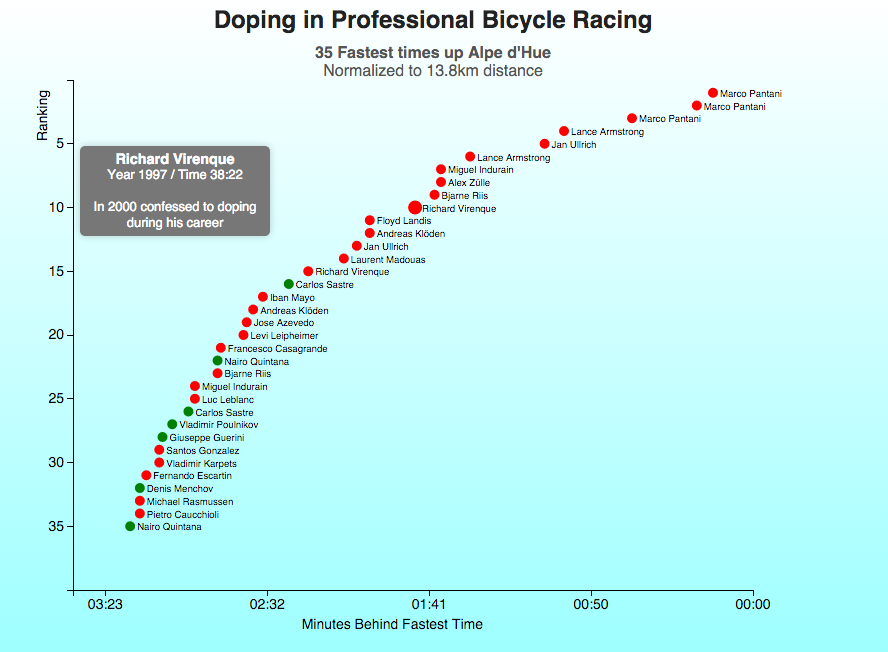
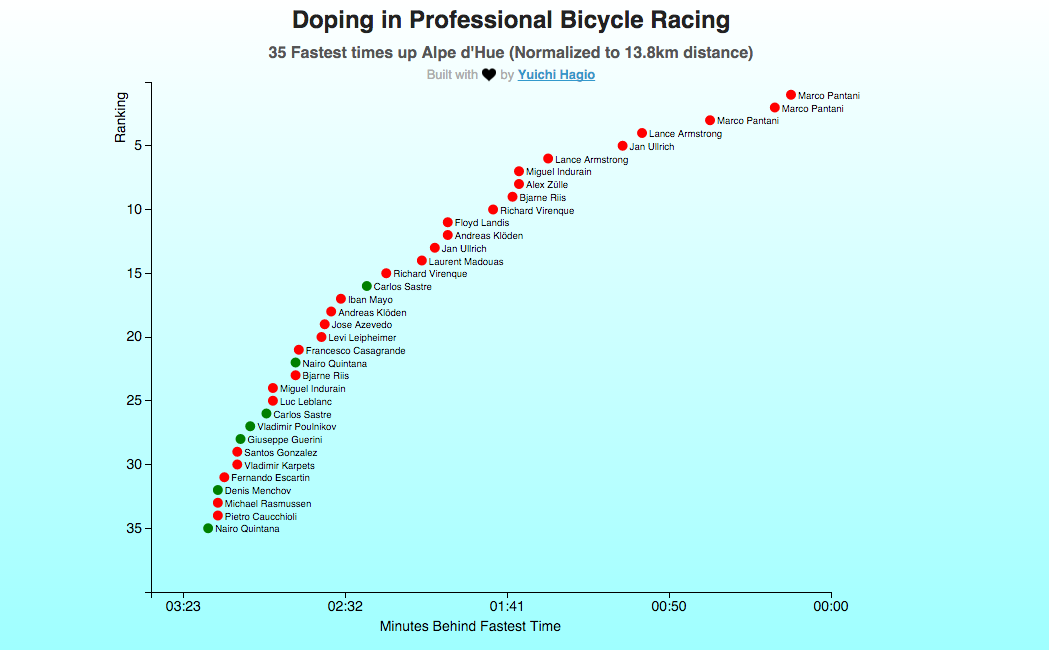
modified screenshot. added create by section

diff --git a/index.html b/index.html
@@ -9,8 +9,10 @@
 <body>
   <div>
     <h2 class='title'>Doping in Professional Bicycle Racing</h2>
-    <h4 class='subtitle'>35 Fastest times up Alpe d'Hue</h4>
-    <p class='subtitle'>Normalized to 13.8km distance</p>
+    <h4 class='subtitle'>35 Fastest times up Alpe d'Hue (Normalized to 13.8km distance)</h4>
+    <p class='createdBy'>
+      Built with <img src="images/iconmonstr-favorite-4-icon-24.png" alt="heart" class="heartImage">by <a href="https://github.com/yhagio" class="nameLink" target="_blank">Yuichi Hagio</a>
+    </p>
   </div>
 
   <div id="tooltip">

diff --git a/main.css b/main.css
@@ -8,13 +8,32 @@ body {
     );
 }
 
+/* Header Part */
 .title {
   color: #222;
   margin: 10px 3px;
 }
 
 .subtitle {
+  margin: 0 0 5px 0;
+}
+
+/* Create By Section */
+.createdBy {
+  font-size: 0.8em;
   margin: 0;
+  color: #adadad;
+}
+
+.heartImage {
+  vertical-align: bottom;
+  width: 14px;
+  margin-right: 5px;
+}
+
+.nameLink {
+  color: #3399CC;
+  font-weight: bold;
 }
 
 /* Axis */
